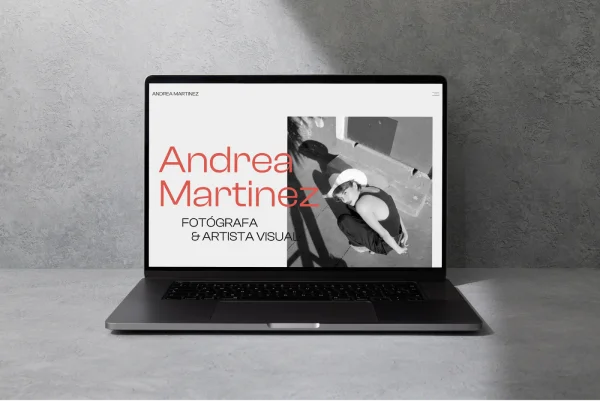
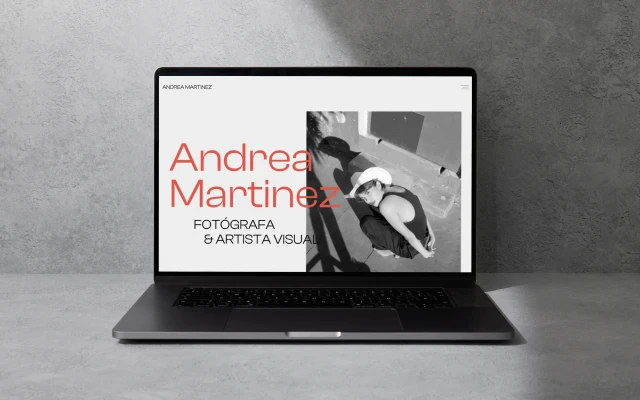
Image optimization

diff --git a/src/data/info-portfolio.js b/src/data/info-portfolio.js
@@ -1,30 +1,42 @@
 import coinLaptop from "../assets/portfolio-track/coin-laptop.webp";
 import coinLaptopMedium from "../assets/portfolio-track/coin-laptop-medium.webp";
 import coinLaptopSmall from "../assets/portfolio-track/coin-laptop-small.webp";
-import coinData from "../assets/portfolio-track/coin-data.webp";
-import coinPortfolio from "../assets/portfolio-track/coin-portfolio.webp";
-import converter from "../assets/portfolio-track/converter.webp";
-import emptyPortfolio from "../assets/portfolio-track/empty-portfolio.webp";
-import hero from "../assets/portfolio-track/hero.webp";
-import login from "../assets/portfolio-track/login.webp";
-import news from "../assets/portfolio-track/news.webp";
-import selectCoinName from "../assets/portfolio-track/select-coin-name.webp";
-//
-import organicLaptop from "../assets/organic-food/organic-laptop.webp";
-import organicLaptopMedium from "../assets/organic-food/organic-laptop-medium.webp";
-import organicLaptopSmall from "../assets/organic-food/organic-laptop-small.webp";
-import organicHero from "../assets/organic-food/content-hero-organic.webp";
-import organicBenefits from "../assets/organic-food/benefits-organic.webp";
-import organicProducts from "../assets/organic-food/products-organic.webp";
-import organicLanding from "../assets/organic-food/landing-organic.webp";
+import coinHeroLarge from "../assets/portfolio-track/hero-large.webp";
+import coinHeroSmall from "../assets/portfolio-track/hero-small.webp";
+import coinLoginLarge from "../assets/portfolio-track/login-large.webp";
+import coinLoginSmall from "../assets/portfolio-track/login-small.webp";
+import coinConverterLarge from "../assets/portfolio-track/converter-large.webp";
+import coinConverterSmall from "../assets/portfolio-track/converter-small.webp";
+import coinPortfolioLarge from "../assets/portfolio-track/portfolio-large.webp";
+import coinPortfolioSmall from "../assets/portfolio-track/portfolio-small.webp";
+import coinNewsLarge from "../assets/portfolio-track/news-large.webp";
+import coinNewsSmall from "../assets/portfolio-track/news-small.webp";
+
 //
 import andreafLaptop from "../assets/andreaf/andreaf-laptop.webp";
 import andreafLaptopMedium from "../assets/andreaf/andreaf-laptop-medium.webp";
 import andreafLaptopSmall from "../assets/andreaf/andreaf-laptop-small.webp";
-import andreafWork from "../assets/andreaf/andreaf-work.webp";
-import andreafWorkDetail from "../assets/andreaf/andreaf-work-detail.webp";
-import andreaFooter from "../assets/andreaf/andreaf-footer.webp";
-import andreafAbout from "../assets/andreaf/andreaf-about.webp";
+import andreafHeroLarge from "../assets/andreaf/andreaf-hero-large.webp";
+import andreafHeroSmall from "../assets/andreaf/andreaf-hero-small.webp";
+import andreafAboutLarge from "../assets/andreaf/andreaf-about-large.webp";
+import andreafAboutSmall from "../assets/andreaf/andreaf-about-small.webp";
+import andreafMenuLarge from "../assets/andreaf/andreaf-menu-large.webp";
+import andreafMenuSmall from "../assets/andreaf/andreaf-menu-small.webp";
+import andreafWorkLarge from "../assets/andreaf/andreaf-work-large.webp";
+import andreafWorkSmall from "../assets/andreaf/andreaf-work-small.webp";
+
+//
+import organicLaptop from "../assets/organic-food/organic-laptop.webp";
+import organicLaptopMedium from "../assets/organic-food/organic-laptop-medium.webp";
+import organicLaptopSmall from "../assets/organic-food/organic-laptop-small.webp";
+import organicHeroLarge from "../assets/organic-food/organic-hero-large.webp";
+import organicHeroSmall from "../assets/organic-food/organic-hero-small.webp";
+import organicBenefitsLarge from "../assets/organic-food/organic-benefits-large.webp";
+import organicBenefitsSmall from "../assets/organic-food/organic-benefits-small.webp";
+import organicProductsLarge from "../assets/organic-food/organic-products-large.webp";
+import organicProductsSmall from "../assets/organic-food/organic-products-large.webp";
+import organicLandingLarge from "../assets/organic-food/landing-organic.webp";
+import organicLandingSmall from "../assets/organic-food/landing-organic-small.webp";
 
 export const personalProjects = [
   {
@@ -36,14 +48,11 @@ export const personalProjects = [
     imgSrcAppMedium: coinLaptopMedium,
     imgSrcAppSmall: coinLaptopSmall,
     descriptionImg: [
-      hero,
-      news,
-      login,
-      emptyPortfolio,
-      selectCoinName,
-      coinData,
-      coinPortfolio,
-      converter,
+      { small: coinHeroSmall, large: coinHeroLarge },
+      { small: coinNewsSmall, large: coinNewsLarge },
+      { small: coinLoginSmall, large: coinLoginLarge },
+      { small: coinPortfolioSmall, large: coinPortfolioLarge },
+      { small: coinConverterSmall, large: coinConverterLarge },
     ],
     imageAlt:
       "Imagen de una laptop con el fondo de pantalla de una website sobre criptomonedas",
@@ -60,10 +69,10 @@ export const personalProjects = [
     imgSrcAppMedium: andreafLaptopMedium,
     imgSrcAppSmall: andreafLaptopSmall,
     descriptionImg: [
-      andreafWork,
-      andreafWorkDetail,
-      andreafAbout,
-      andreaFooter,
+      { small: andreafHeroSmall, large: andreafHeroLarge },
+      { small: andreafWorkSmall, large: andreafWorkLarge },
+      { small: andreafAboutSmall, large: andreafAboutLarge },
+      { small: andreafMenuSmall, large: andreafMenuLarge },
     ],
     imageAlt:
       "Imagen de una laptop con el fondo de pantalla de una website sobre una empresa que vende semillas orgánicas",
@@ -79,10 +88,10 @@ export const personalProjects = [
     imgSrcAppMedium: organicLaptopMedium,
     imgSrcAppSmall: organicLaptopSmall,
     descriptionImg: [
-      organicHero,
-      organicBenefits,
-      organicProducts,
-      organicLanding,
+      { small: organicHeroSmall, large: organicHeroLarge },
+      { small: organicBenefitsSmall, large: organicBenefitsLarge },
+      { small: organicProductsSmall, large: organicProductsLarge },
+      { small: organicLandingSmall, large: organicLandingLarge },
     ],
     imageAlt:
       "Imagen de una laptop con el fondo de pantalla de una website sobre una empresa que vende semillas orgánicas",

diff --git a/src/components/ProjectDescription/ProjectDescription.jsx b/src/components/ProjectDescription/ProjectDescription.jsx
@@ -75,14 +75,18 @@ function ProjectsDescription() {
               </div>
               <div className={styles.appContentProject}>
                 {projectInfo?.descriptionImg?.map((img) => (
-                  <div key={img} className={styles.contentProjectImage}>
-                    <img
-                      width={400}
-                      height={300}
-                      loading="lazy"
-                      src={img}
-                      alt=""
-                    />
+                  <div key={img.small} className={styles.contentProjectImage}>
+                    <picture>
+                      <source srcSet={img.large} media="(min-width: 768px)" />
+                      <img
+                        src={img.small}
+                        decoding="async"
+                        loading="lazy"
+                        alt=""
+                        width="640"
+                        height="400"
+                      />
+                    </picture>
                   </div>
                 ))}
               </div>
